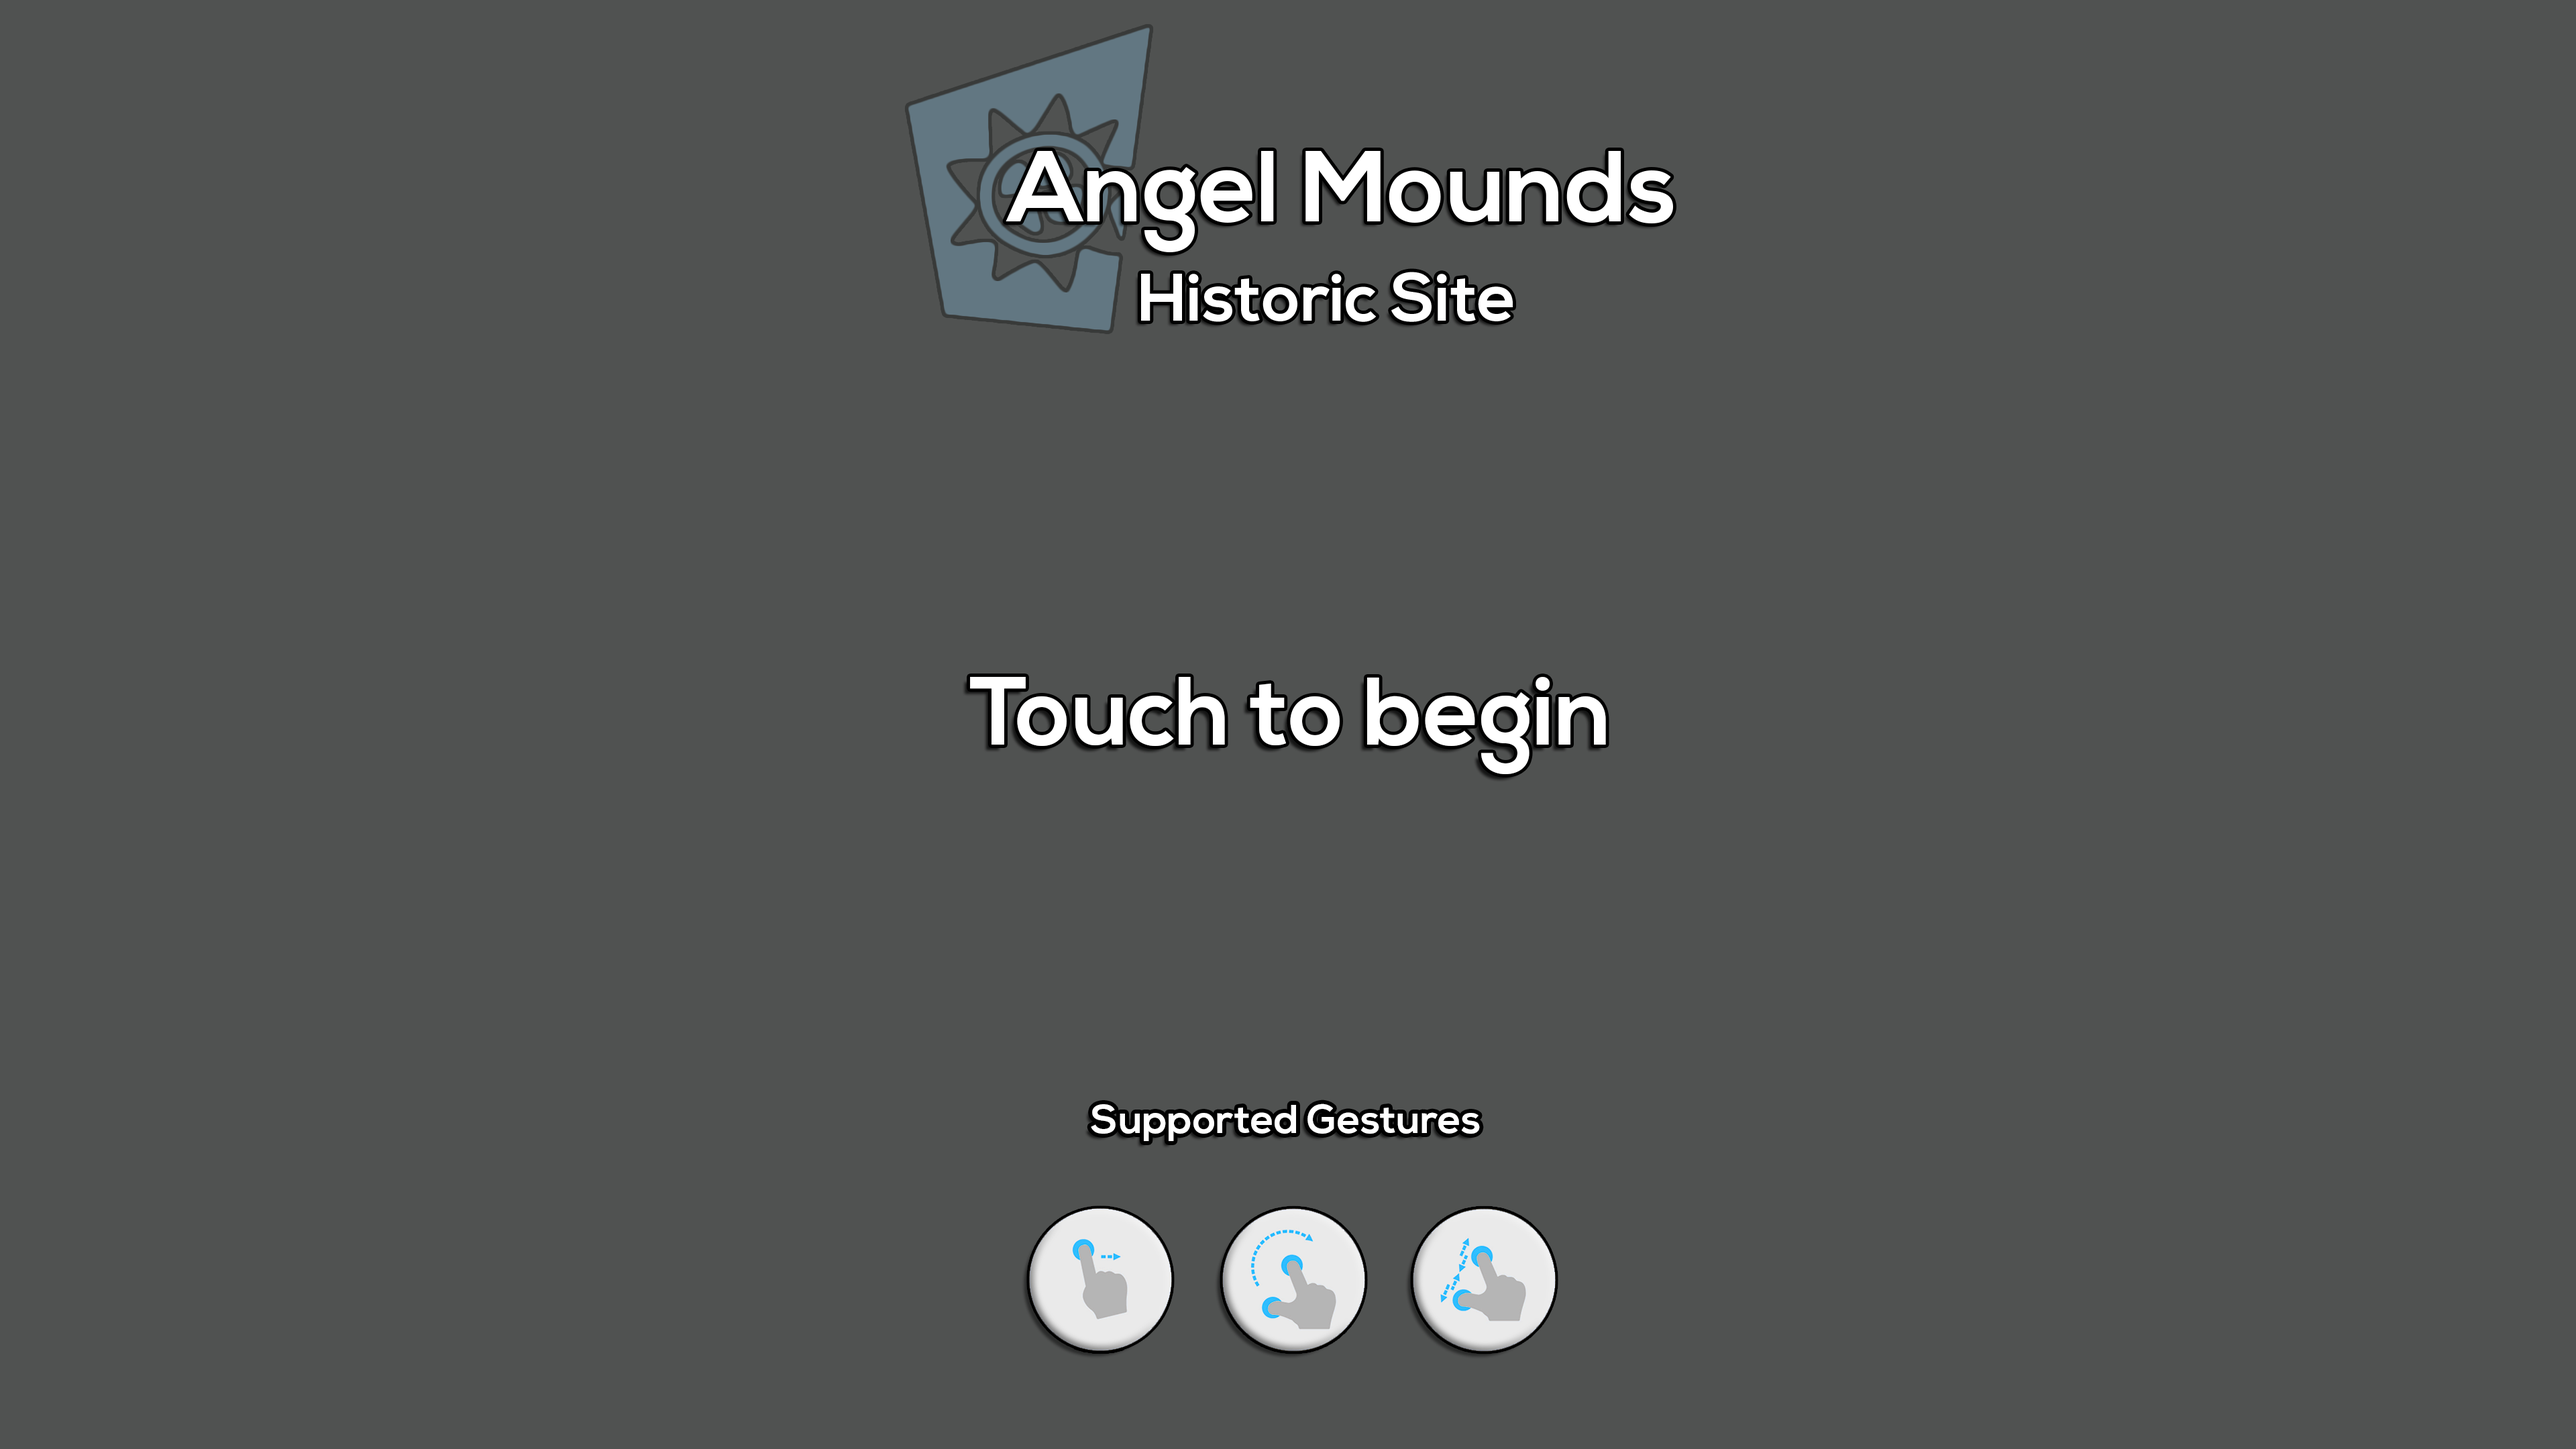
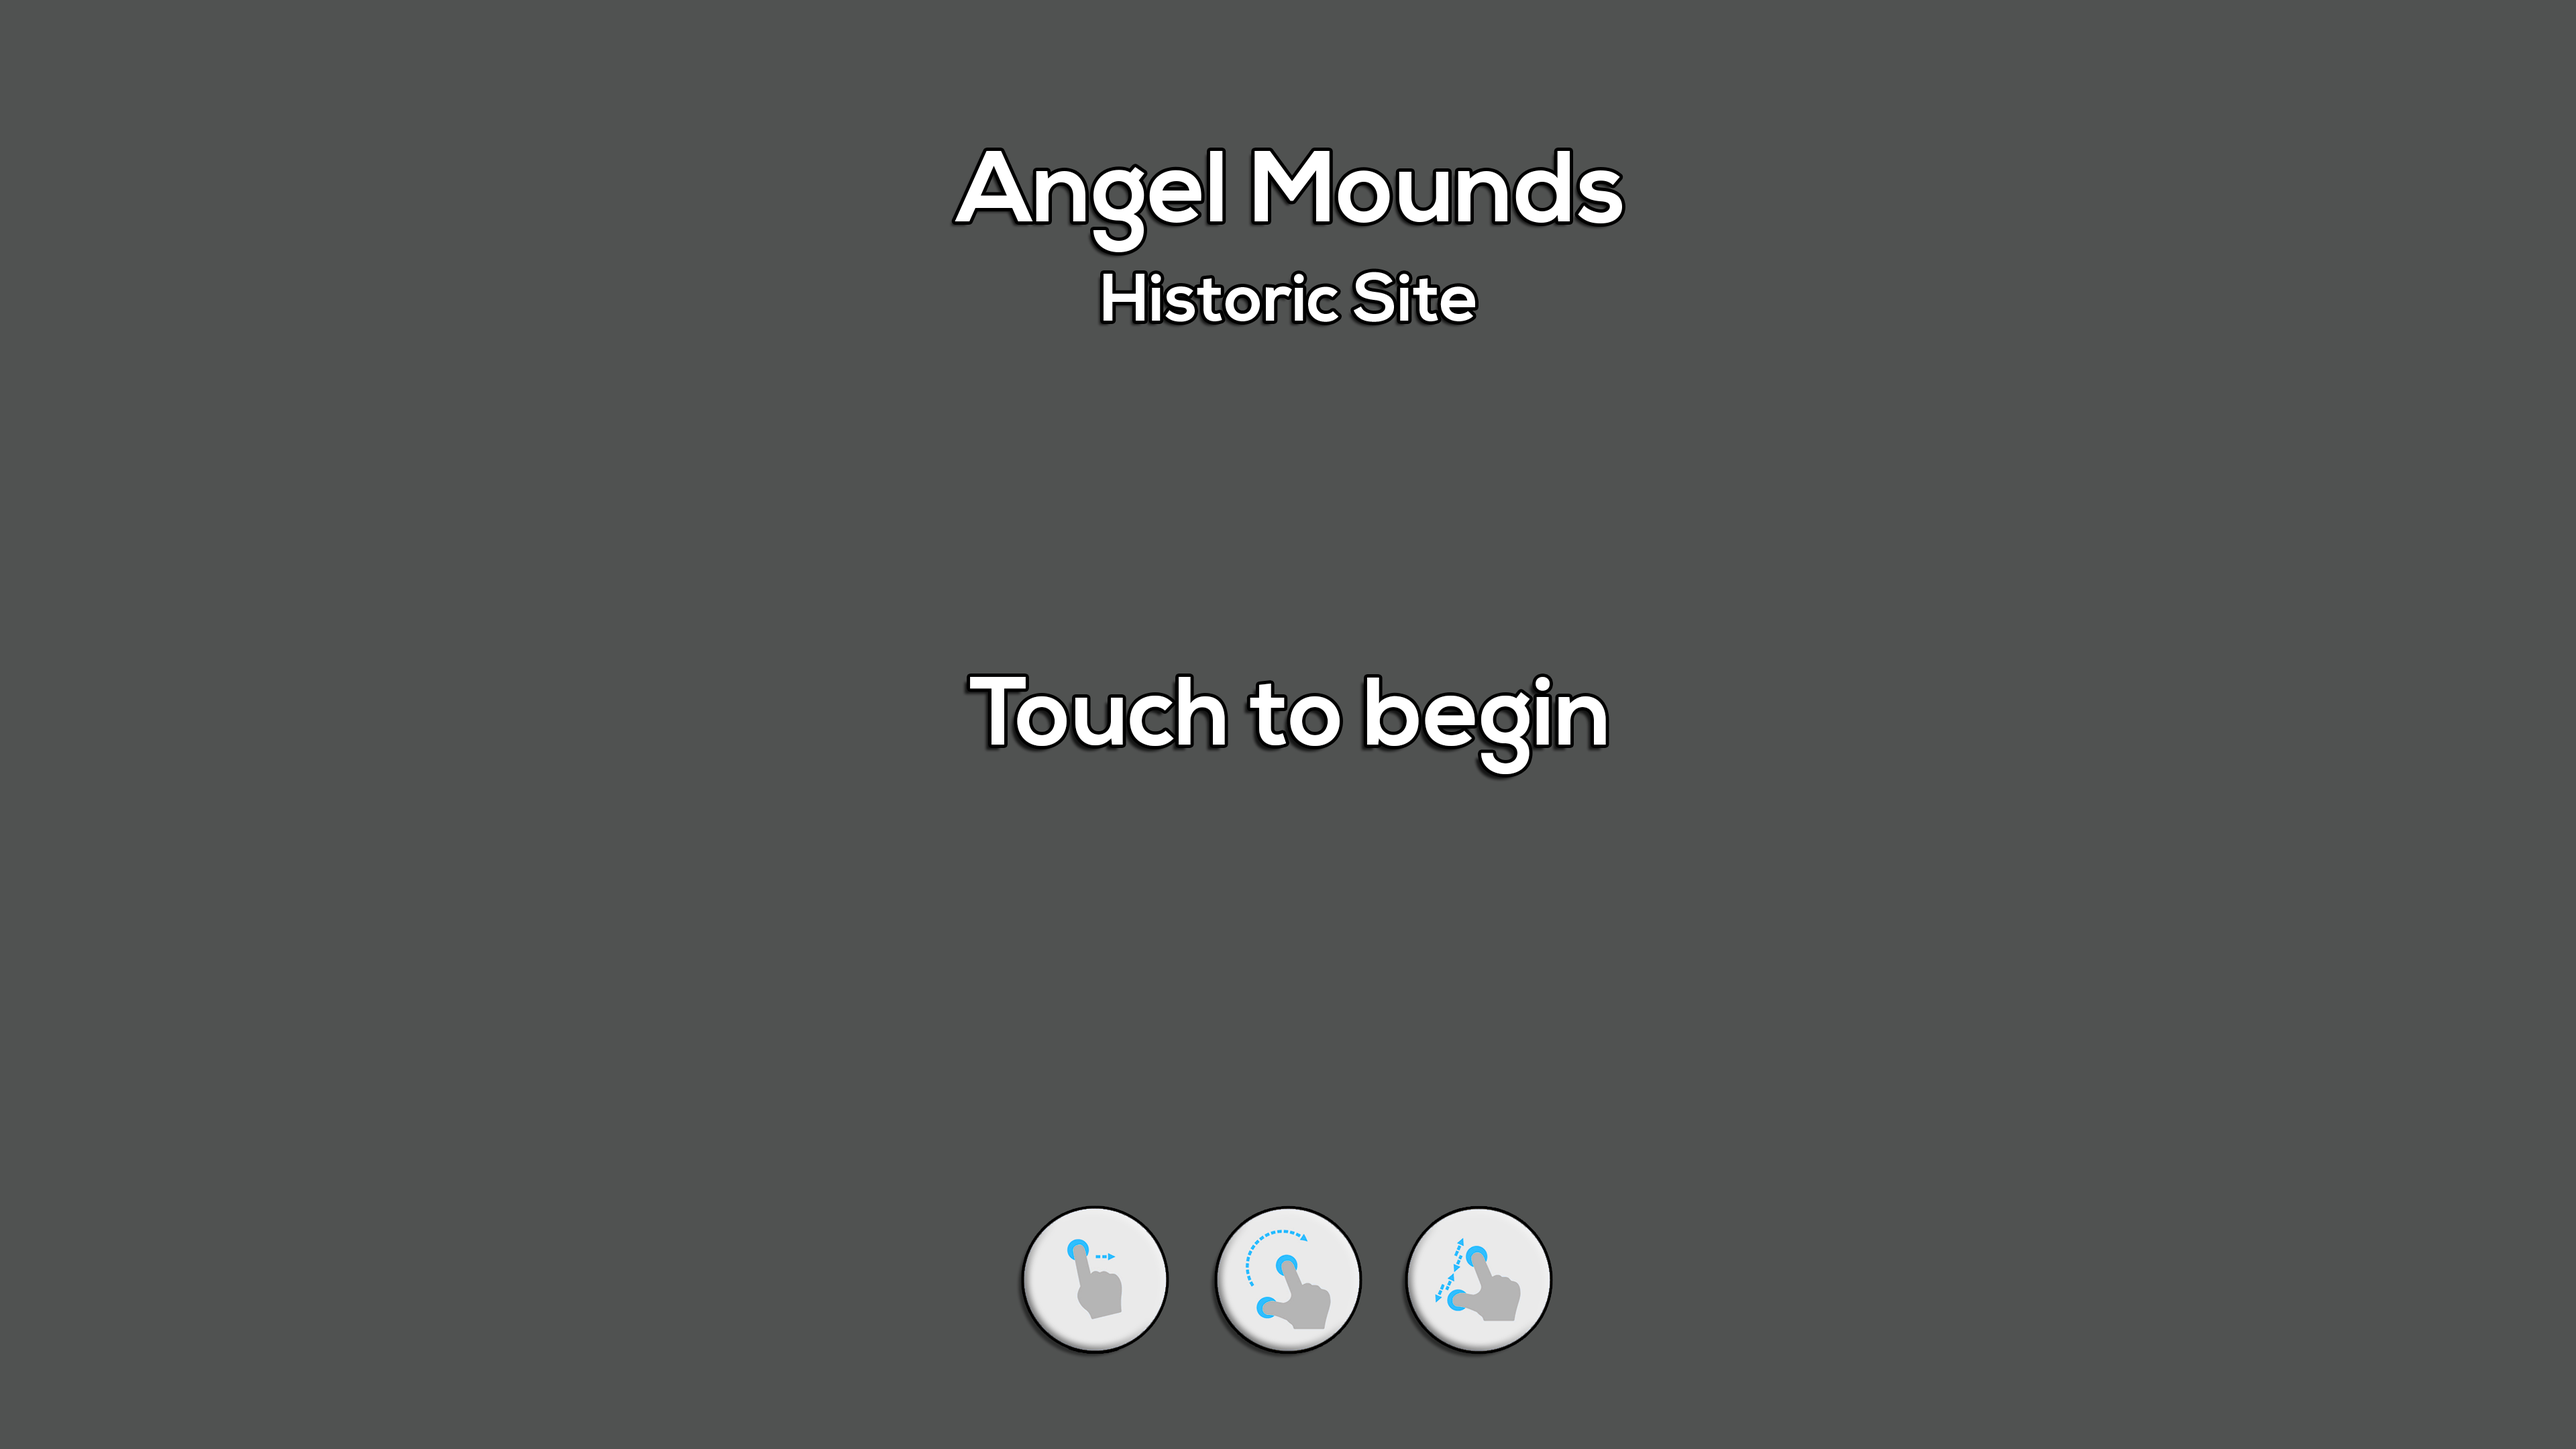
Add Button Animate, layout changes

Changed region(s): [[0.3438, 0.031, 0.6562, 0.2481], [0.375, 0.8375, 0.625, 0.9306], [0.4062, 0.7444, 0.5938, 0.8065]]

diff --git a/src/assets/templates/about/index.html b/src/assets/templates/about/index.html
@@ -18,10 +18,13 @@
 			<section class="left">
 				<img class="indiana" src="../../images/Indiana-Map-dark.jpg"></img>
 				<p>
-				Located on the banks of the Ohio River in southwest Indiana, Angel Mounds State Historic Site is one of the best-preserved Mississippian sites in North America. The site was built and occupied between A.D. 1050 and 1400, and would have supported several thousand residents. â€œMississippianâ€ is a term archaeologists use to describe the people who settled along major waterways in the Midwest and Southeast United States during this time. They shared similar cultural items and traits, and they often built large earthen mounds as platforms to elevate important buildings.
+				Located on the banks of the Ohio River in southwest Indiana, Angel Mounds State Historic Site is one of the best-preserved Mississippian sites in North America. The site was built and occupied between A.D. 1050 and 1400, and would have supported several thousand residents. Mississippian is a term archaeologists use to describe the people who settled along major waterways in the Midwest and Southeast United States during this time. They shared similar cultural items and traits, and they often built large earthen mounds as platforms to elevate important buildings.
 				</p><p>
-				The original Angel site included 11 earthen mounds and covered an area of 103 acres. More than a mile of defensive walls known as palisades once extended around the site. Houses were distributed within neighborhoods and were most abundant in the eastern half of the village. Houses were often placed in association with plazas, which are open spaces that may have had ceremonial significance. Angel Mounds operated as a chiefdom, and would have served as an important religious, political, and trade center for people living within the region.
+
+				The original Angel site included 11 earthen mounds and covered an area of 103 acres. More than a mile of defensive walls known as palisades once extended around the site. Houses were distributed within 	neighborhoods and were most abundant in the eastern half of the village. Houses were often placed in association with plazas,
 				<img class="map" src="../../images/MississippianSitesMap-dark.jpg"></img>
+				which are open spaces that may have had ceremonial significance. Angel Mounds operated as a chiefdom, and would have served as an important religious, political, and trade center for people living within the region.
+
 				</p><p>
 				This interactive exhibit allows you to explore the Angel Mounds site. Discover more images and information about the lifeways of the Mississippian people who lived here by clicking on the colored icons placed around the screen.
 				</p>

diff --git a/src/assets/templates/faq/index.html b/src/assets/templates/faq/index.html
@@ -39,13 +39,13 @@
 					<div class="va-slice va-slice-color-3">
 						<h3 class="va-title">Q: Can the public visit Angel Mounds?</h3>
 						<div class="va-content">
-							<p>Yes, Angel Mounds is an Indiana State Historic Site and is open to the public. Facilities at the site include an interpretive center interpretive center, recreations of Mississippian buildings and a working reconstruction of the 1939 WPA archaeology laboratory. The 500-acre non-archaeological portion of the site contains a nature preserve with hiking and biking trails. For more information, visit: http://www.indianamuseum.org/explore/angel-mounds.</p>
+							<p>Yes, Angel Mounds is an Indiana State Historic Site and is open to the public. Facilities at the site include an interpretive center, recreations of Mississippian buildings and a working reconstruction of the 1939 WPA archaeology laboratory. The 500-acre non-archaeological portion of the site contains a nature preserve with hiking and biking trails. For more information, visit: http://www.indianamuseum.org/explore/angel-mounds.</p>
 						</div>
 					</div>
 					<div class="va-slice va-slice-color-4">
 						<h3 class="va-title"> Q: When was the site excavated?</h3>
 						<div class="va-content">
-							<p> A: Starting in 1939, under the direction of Glenn A. Black, a crew of 277 Works Progress Administration (WPA) workers began excavating the site, recovering over 2.5 million artifacts. Indiana Universityâ€™s Glenn Black Laboratory of Archaeology has since conducted a number of field school excavations at the site and continues to curate and research the Angel Mounds artifact collections.</p>
+							<p> A: Starting in 1939, under the direction of Glenn A. Black, a crew of 277 Works Progress Administration (WPA) workers began excavating the site, recovering over 2.5 million artifacts. Indiana University's Glenn Black Laboratory of Archaeology has since conducted a number of field school excavations at the site and continues to curate and research the Angel Mounds artifact collections.</p>
 						</div>
 					</div>
 					<div class="va-slice va-slice-color-5">

diff --git a/src/app/components/drab/drab.css b/src/app/components/drab/drab.css
@@ -1,39 +1,26 @@
-*, *:after, *:before { -webkit-box-sizing: border-box; -moz-box-sizing: border-box; box-sizing: border-box; }
-body, html { font-size: 100%; padding: 0; margin: 0;}
-
-.clearfix:before, .clearfix:after { content: " "; display: table; }
-.clearfix:after { clear: both; }
 
 body {
-	font-family: 'Lato', Calibri, Arial, sans-serif;
-	color: #fff;
+/*	font-family: 'Lato', Calibri, Arial, sans-serif;*/
+/*	color: #fff;*/
 	background: #333;
 }
 
-a {
-	color: #ccc;
-	text-decoration: none;
-}
-
-a:hover {
-	color: #000;
-}
 
 
 .drab {
-	background: white;
 	position: relative;
-	box-shadow: 0 40px 77px 0 rgba(0, 0, 0, 0.22), 0 27px 24px 0 rgba(0, 0, 0, 0.2)
+	box-shadow: 0 40px 77px 0 rgba(0, 0, 0, 0.22), 0 27px 24px 0 rgba(0, 0, 0, 0.2);
 }
 
 .drabLabel {
 	font-family:"BentonSansCondBold";
-	color:white;
 	font-size: 5em;
-	text-align: center;
+	text-align:center;
 	word-wrap:normal;
 	padding-left:10px;
 	padding-right:10px;
+	/* text-shadow: 0px 5px #black; */
+
 
 }
 
@@ -48,9 +35,9 @@ a:hover {
 	z-index: 100;
 	box-shadow: 0 40px 77px 0 rgba(0, 0, 0, 0.22), 0 27px 24px 0 rgba(0, 0, 0, 0.2);
 	touch-action: none;
-		border-radius:80px;
-	-moz-border-radius:80px;
-	-webkit-border-radius:80px;
+		border-radius:50px;
+	-moz-border-radius:50px;
+	-webkit-border-radius:40px;
 }
 
 .itemIframe {
@@ -69,8 +56,31 @@ a:hover {
   height: 500px;
 }
 
+
+
+
+/*********** Animations ****************/
+.highlight {
+  transition:0.5s linear all;
+  color:black;
+  background:white;
+}
+.highlight.on-add {
+  background:white;
+  color:black;
+
+}
+.highlight.on {
+  background:#333;
+  color:white;
+}
+.highlight.on-remove {
+/*  background:black;*/
+}
+
+
 .fade.ng-enter {
-  transition:0.2s linear all;
+  transition:0.5s linear all;
   opacity:0;
 }
 
@@ -80,7 +90,7 @@ a:hover {
 }
 
 .fade.ng-leave {
-  transition:0.2s linear all;
+  transition:.5s linear all;
   opacity:1;
 }
 .fade.ng-leave.ng-leave-active {

diff --git a/src/app/components/drab/drab.html b/src/app/components/drab/drab.html
@@ -1,22 +1,20 @@
-<div class="drab"
-	 hm-tap="dc.activate()"
-	 hm-recognizer-options='{"preventDefault":true}'>
-	 <img src="../../../assets/icons/ic_help_black_24dp.png"/ style="color:white;">
-<!--		<h1 class="drabLabel">{{dc.config.label}}</h1>-->
-
-<!--		<div ng-if="dc.active"-->
-<!--			 class="drabPane fade">-->
-			<iframe
-ng-if="dc.active"
-
+<div
+	  ng-class="{on:onOff}"
+	  class="drab highlight"
+	 hm-tap="dc.activate(); onOff=!onOff"
+	 hm-recognizer-options='{"preventDefault":true}'
+	 >
+		<h1 class="drabLabel">{{dc.config.label}}</h1>
+		<iframe
+			ng-if="dc.active"
 			hm-tap=""
 			hm-recognizer-options='{"stopPropagation":true}'
-
 			class="drabPane fade"
 			ng-src="{{dc.config.template | trusted}}"
-			frameborder="no"></iframe>
-<!--		</div>-->
+			frameborder="no"
+			>
+		</iframe>
 </div>
 
-
+<!--	 <img src="../../../assets/icons/ic_help_black_24dp.png"/ style="color:white;">-->
 <!--				ng-click="$event.stopPropagation()"-->

diff --git a/src/app/main/main.controller.js b/src/app/main/main.controller.js
@@ -8,7 +8,7 @@ angular.module('angelMounds')
 	$scope.media = media.query();
 	$scope.drabs = [
 		{
-			label: 'ABOUT',
+			label: 'About',
 			template: 'assets/templates/about/index.html',
 			bottom: '0%',
 			left: '0%'
@@ -17,14 +17,14 @@ angular.module('angelMounds')
 
 	$scope.showIdleOverlay = false;
 
-    
-    $scope.$on('IdleStart', function() {
-      // the user appears to have gone idle
-      //console.log('idleStart');
-      
-      // show idle overlay
-      $scope.showIdleOverlay = true;
-    });
+
+	$scope.$on('IdleStart', function() {
+	  // the user appears to have gone idle
+	  //console.log('idleStart');
+
+	  // show idle overlay
+	  $scope.showIdleOverlay = true;
+	});
 
 	$scope.$on('IdleWarn', function(e, countdown) {
 	  // follows after the IdleStart event, but includes a countdown until the user is considered timed out

diff --git a/src/assets/templates/faq/css/style.css b/src/assets/templates/faq/css/style.css
@@ -77,7 +77,6 @@ body{
 .va-title{
 	font-family: 'Open Sans Condensed', sans-serif;
 	text-transform:uppercase;
-	font-size:60px;
 	margin-left:20px;
 	color:#fff;
 	text-shadow: 0px 0px 1px white;
@@ -87,13 +86,14 @@ body{
 	margin-left:25px;
 }
 .va-slice p{
-	font-size: 2em;
+	color:white;
+	font-size: 1.3em;
 	padding-right:1%;
 	font-style: italic;
 	font-family:Georgia, serif;
 }
 .va-slice h3{
-  font-size:2em;
+  font-size:1.5em;
 }
 .va-slice ul{
 	margin-top:20px;
@@ -104,7 +104,6 @@ body{
 }
 .va-slice ul li a{
 	color:#000;
-	background:#eede2f;
 	padding:3px 6px;
 	font-size:14px;
 	font-family:'PT Sans', sans-serif;

diff --git a/src/assets/templates/about/css/component.css b/src/assets/templates/about/css/component.css
@@ -91,13 +91,13 @@ html, body, .container {
   float:left;
 }
 .rightTitle{
-	padding-top: 1%;
+	padding-top: 2.5%;
   padding-right: 20%;
   float:right;
 }
 
 .leftTitle{
-	padding-top: 1%;
+	padding-top: 2.5%;
   padding-left:20%;
   float:left;
 }
@@ -116,8 +116,8 @@ p {
 	padding-top:0px;
 	padding-left:2%;
 	padding-right:1%;
-	padding-bottom:2%;
-	line-height:130%;
+	padding-bottom:0%;
+	line-height:145%;
 	font-weight: 300;
 	font-size: 1.4em;
 	text-align: justify;
